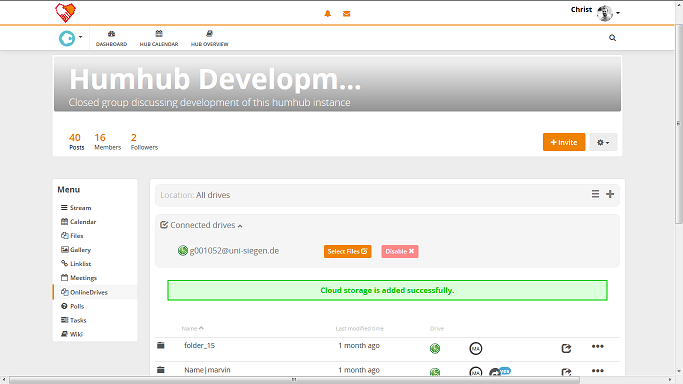
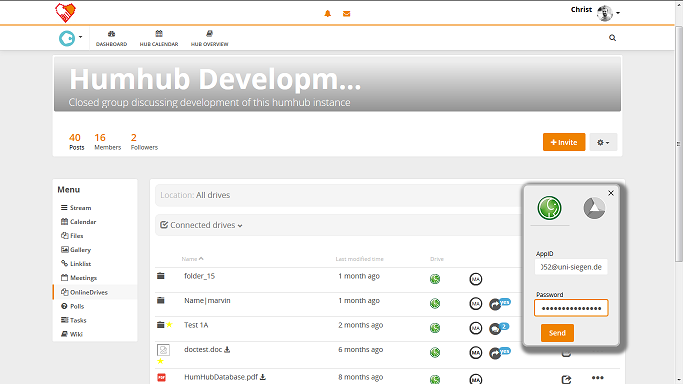
Make the Sciebo guide in English and German version better.

Changed region(s): [[0.0, 0.4688, 0.9224, 1.0], [0.9839, 0.5625, 1.0, 0.6875], [0.9839, 0.0625, 1.0, 0.0938]]

diff --git a/messages/de/new.php b/messages/de/new.php
@@ -62,15 +62,15 @@ return array (
     'sciebo_guide_txt3' => 'Schritt 3: Unter Ihren Sicherheits-Einstellungen befindet sich ganz unten der Punkt „App-Passwörter / Token“ (siehe oranger Kreis im Screenshot).<br />
     	An dieser Stelle ist zu betonen, dass der hier vergebene App-Passcode keinen Vollzugriff auf Ihr Konto ermöglicht, sondern nur gezielt Rechte vergeben werden können. Diese Rechte können im weiteren Verlauf der Einrichtung angepasst werden.<br />
     	Um nun für HumHub einen Passcode zu erstellen, geben Sie unten bspw. „HumHub“ als Name ein und klicken dann auf „Neuen App-Passcode erstellen“.',
-    'sciebo_guide_txt4' => '<p>Schritt 4: Die so neu erstellten App-Zugangsdaten werden jetzt angezeigt und können verwendet werden. Kopieren Sie die Werte für Benutzernamen und Passwort/Token nacheinander in das Zugangsdaten-Formular in OnlineDrives. Dieses ist, im nächsten Screenshot zu sehen und lässt sich über das kleine Zahnrad oben rechts aufrufen.</p>
-    	<p>Während dieses Schrittes sollten Sie die Seite mit den App-Zugangsdaten am besten geöffnet lassen, da die Zugangsdaten nach einem Reload der Seite nicht mehr sichtbar sind. Sie können sich aber jederzeit neue App-Zugangsdaten erstellen, sowie die alten löschen.</p>
-    	<p>Im Formular kann man dann den Dienst (Sciebo oder Google Drive) anklicken und die entsprechenden Zugangsdaten eintragen.</p>',
-    'sciebo_guide_txt5' => 'Schritt 5: Nach erfolgter Verbindung erscheint im obigen Bereich des Moduls ein Hinweis über die verbundenen Dienste.<br />
+    'sciebo_guide_txt4' => 'Schritt 4: Die so neu erstellten App-Zugangsdaten werden jetzt angezeigt und können verwendet werden. Kopieren Sie die Werte für Benutzernamen und Passwort/Token nacheinander in das Zugangsdaten-Formular in OnlineDrives.',
+    'sciebo_guide_txt5' => '<p>Schritt 5: Das Zugangsdaten-Formular ist im nächsten Screenshot zu sehen und lässt sich über das Burger-Icon ([class=glyphicon glyphicon-menu-hamburger][/class]) oben rechts aufrufen.</p>
+        <p>Während dieses Schrittes sollten Sie die Seite mit den App-Zugangsdaten am besten geöffnet lassen, da die Zugangsdaten nach einem Reload der Seite nicht mehr sichtbar sind. Sie können sich aber jederzeit neue App-Zugangsdaten erstellen, sowie die alten löschen.</p>
+        <p>Im Formular kann man dann den Dienst (in diesem Fall Sciebo) anklicken und die entsprechenden Zugangsdaten eintragen.</p>',
+    'sciebo_guide_txt6' => 'Schritt 6: Nach erfolgter Verbindung erscheint im obigen Bereich des Moduls ein Hinweis über die verbundenen Dienste.<br />
     	Über „Dateien auswählen“ können Sie nun Verzeichnisse und Dateien Ihres Sciebo-Kontos auswählen, die Sie mit den Mitgliedern dieses Spaces teilen möchten. Mit einem Klick auf „Deaktivieren“ können Sie die Verbindung zu jeder Zeit wieder beenden.',
-    'sciebo_guide_txt6' => 'Nach einem Klick auf „Select files“ erscheint die unten dargestellte Übersicht, in der Sie Dateien und Ordner an- oder abwählen können, sowie anderen Nutzern des Spaces die Berechtigung erteilen können auch selbst Dateien und Ordner in die von Ihnen freigegebenen Ordner hochzuladen. Dabei werden die Daten synchronisiert, nicht nur kopiert. Die Auswahl kann aber jederzeit angepasst werden.<br />
+    'sciebo_guide_txt7' => 'Nach einem Klick auf „Select files“ erscheint die unten dargestellte Übersicht, in der Sie Dateien und Ordner an- oder abwählen können, sowie anderen Nutzern des Spaces die Berechtigung erteilen können auch selbst Dateien und Ordner in die von Ihnen freigegebenen Ordner hochzuladen. Dabei werden die Daten synchronisiert, nicht nur kopiert. Die Auswahl kann aber jederzeit angepasst werden.<br />
     	Mit einem Klick auf „Speichern“ werden dann die Einstellungen übernommen.',
-    'sciebo_guide_txt7' => 'Schritt 6: Im folgenden Screenshot sehen Sie eine beispielhafte Liste geteilter Dateien nach dem Speichern des Formulars aus Schritt 5. Diese Liste ist ausschließlich für die Mitglieder dieses Spaces einsehbar.',
-    'sciebo_guide_txt8' => '',
+    'sciebo_guide_txt8' => 'Schritt 7: Im folgenden Screenshot sehen Sie eine beispielhafte Liste geteilter Dateien nach dem Speichern des Formulars aus Schritt 6. Diese Liste ist ausschließlich für die Mitglieder dieses Spaces einsehbar.',
 
     // Guide for Google Drive
     'gd_guide_txt1' => 'Schritt 1: Bitte gehen Sie auf <a class="u" href="https://console.developers.google.com" target="_blank">https://console.developers.google.com</a> und loggen Sie sich dort mit den Zugangsdaten Ihres Google-Kontos ein.',

diff --git a/messages/en/new.php b/messages/en/new.php
@@ -61,15 +61,14 @@ return array (
     'sciebo_guide_txt2' => 'Step 2: The overview of your settings will open. Click on “Security” (see orange box in the screenshot).',
     'sciebo_guide_txt3' => 'Step 3: At the bottom of your security settings you will see the item “App passwords / tokens” (see orange circle in the screenshot). In the “App name” space, create a passcode for HumHub by entering “HumHub” (as the example below) and then click “Create new app passcode”.<br />
     Note: The app passcode assigned here isn’t the login credential of your Sciebo account. It is a passcode which allows Research Hub to connect to your Sciebo account. You can set specific rights to which content gets accessable from Research Hub. These rights can be adjusted in the further course of the setup.',
-    'sciebo_guide_txt4' => '<p>Step 4: The new app access data created in this way is now displayed and can be used. Copy the values for user name and password/token one after the other into the access data form in OnlineDrives. This is shown in the next screenshot and can be accessed via the small gear wheel in the upper right corner.</p>
+    'sciebo_guide_txt4' => 'Step 4: The new app access data created in this way is now displayed and can be used. Copy the values for user name and password/token one after the other.',
+    'sciebo_guide_txt5' => 'Step 5: Paste them into the access data form in OnlineDrives (it can be accessed) via the burger icon ([class=glyphicon glyphicon-menu-hamburger][/class]) in the upper right corner).</p>
         <p>During this step, it is best to leave the page with the app access data open, as the access data is no longer visible after reloading the page. However, you can create new app access data at any time, as well as delete the old ones.</p>
-        <p>In the form you can then click on the service (Sciebo or Google Drive) and enter the corresponding access data.</p>',
-    'sciebo_guide_txt5' => 'Step 5: After a successful connection, a note about the connected services appears in the upper part of the module.<br />
-        With “Select files” you can now select directories and files of your Sciebo account that you want to share with the members of this space. By clicking on “Disable” you can terminate the connection at any time.',
-    'sciebo_guide_txt6' => 'After clicking on “Select files” the overview shown below will appear, where you can select or deselect files and folders and give other users of the Space permission to upload files and folders to the folders you have shared. In doing so, the data is synchronized, not just copied. But the selection can be adjusted at any time.<br />
+        <p>In the form you can then click on the service (Sciebo in this case) and enter the corresponding access data.</p>',
+    'sciebo_guide_txt6' => 'Step 6: After a successful connection, a note about the connected services appears in the upper part of the module. (See green box: “Cloud storage is added sccuessfully”.) With “Select files” (orange box) you can now select directories and files (from your Sciebo account) that you want to share with the members of this space. By clicking on “Disable” you can terminate the connection at any time.',
+    'sciebo_guide_txt7' => 'After clicking on “Select files”, you will have the overview of your complete Sciebo account. You can select or deselect files/folders and give other users of the Space permission to upload files to the directories you have shared. In doing so, the data is synchronized, not just copied. But the selection can be adjusted at any time.<br />
         With a click on “Save” the settings are then applied.',
-    'sciebo_guide_txt7' => 'Step 6: The following screenshot shows an example list of shared files after saving the form from step 5. This list is only visible to the members of this space.',
-    'sciebo_guide_txt8' => '',
+    'sciebo_guide_txt8' => 'Step 7: The following screenshot shows an example list of shared files after saving the form from step 6. This list is only visible to the members of this space.',
 
     // Guide for Google Drive
     'gd_guide_txt1' => 'Step 1: Please go on <a class="u" href="https://console.developers.google.com" target="_blank">https://console.developers.google.com</a> and log in with your Google account access data.',

diff --git a/views/browse/index.php b/views/browse/index.php
@@ -65,6 +65,13 @@ elseif (isset($_REQUEST['error_msg'])) {
 /**
  * Functions
  */
+function bbcode($txt) {
+  //class replacing
+    $txt = preg_replace("#\[class=([a-z -]+)\]\[/class\]#", "<span class=\"\\1\"></span>", $txt);
+  //return    
+    return $txt;
+}
+
 function month_name_to_number($number) {
     switch ($number) {
         case 'Jan': return 1; break;
@@ -3463,7 +3470,12 @@ echo
 '<p>'.$sciebo_guide_h.'</p><br />';
 for ($i = 1; $i <= $count_guide_sciebo; $i++) {
     $pic = '<img src="'. $bundle->baseUrl .'/images/guide/sciebo/'.$i.$lang.'.png" />';
-    echo '<p>' . Yii::t('OnlinedrivesModule.new', 'sciebo_guide_txt'.$i) . '<p>'.
+  //read text
+    $txt = Yii::t('OnlinedrivesModule.new', 'sciebo_guide_txt'.$i);
+  //bbcode
+    $txt = bbcode($txt);
+  //output
+    echo '<p>'.$txt.'<p>'.
     '<p>'.$pic.'<p><br />';
 }
 
